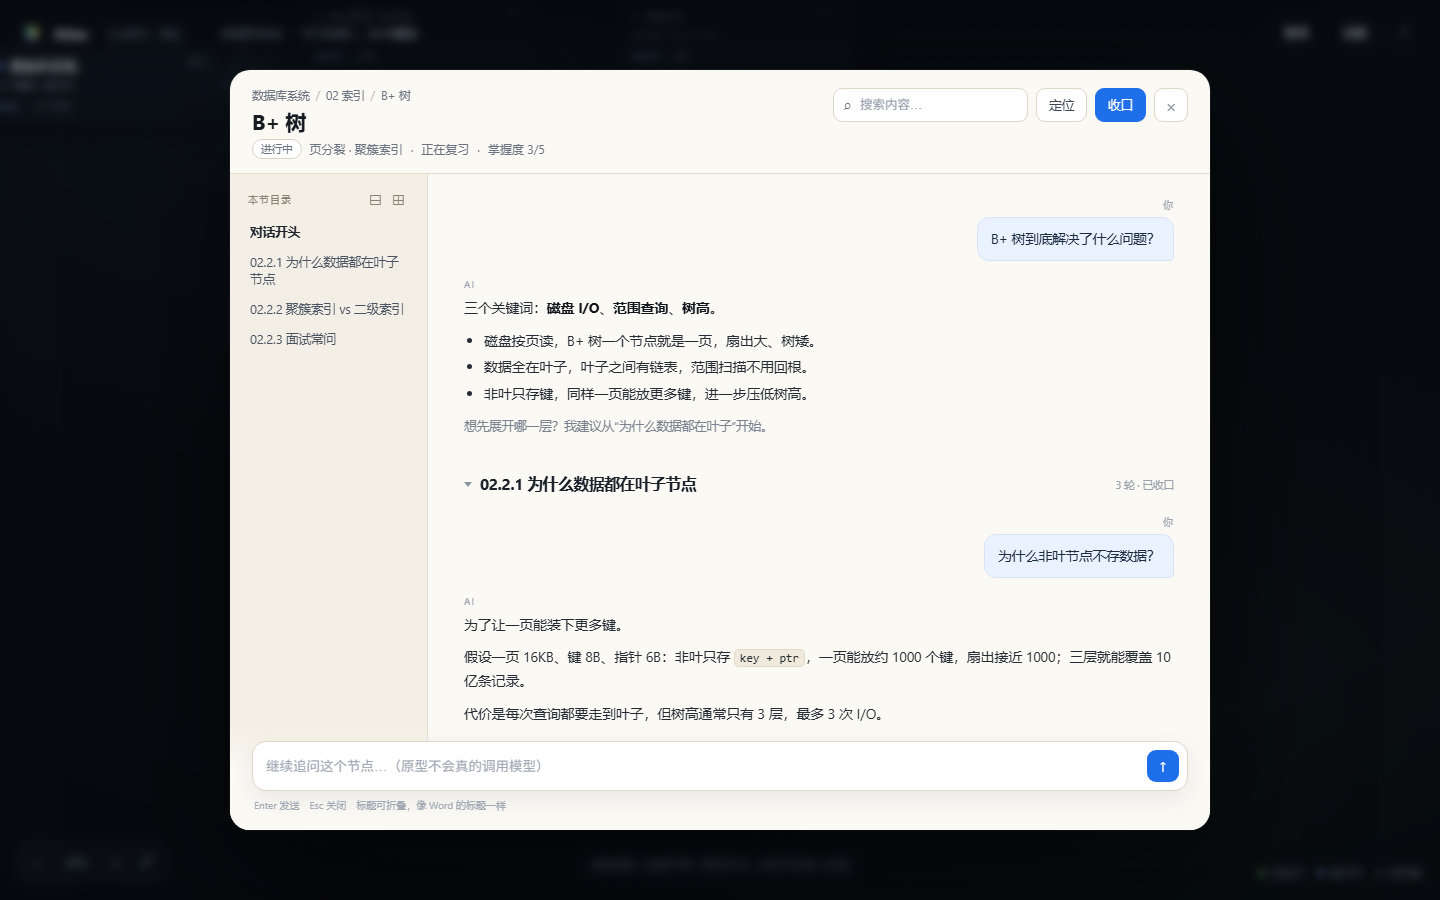
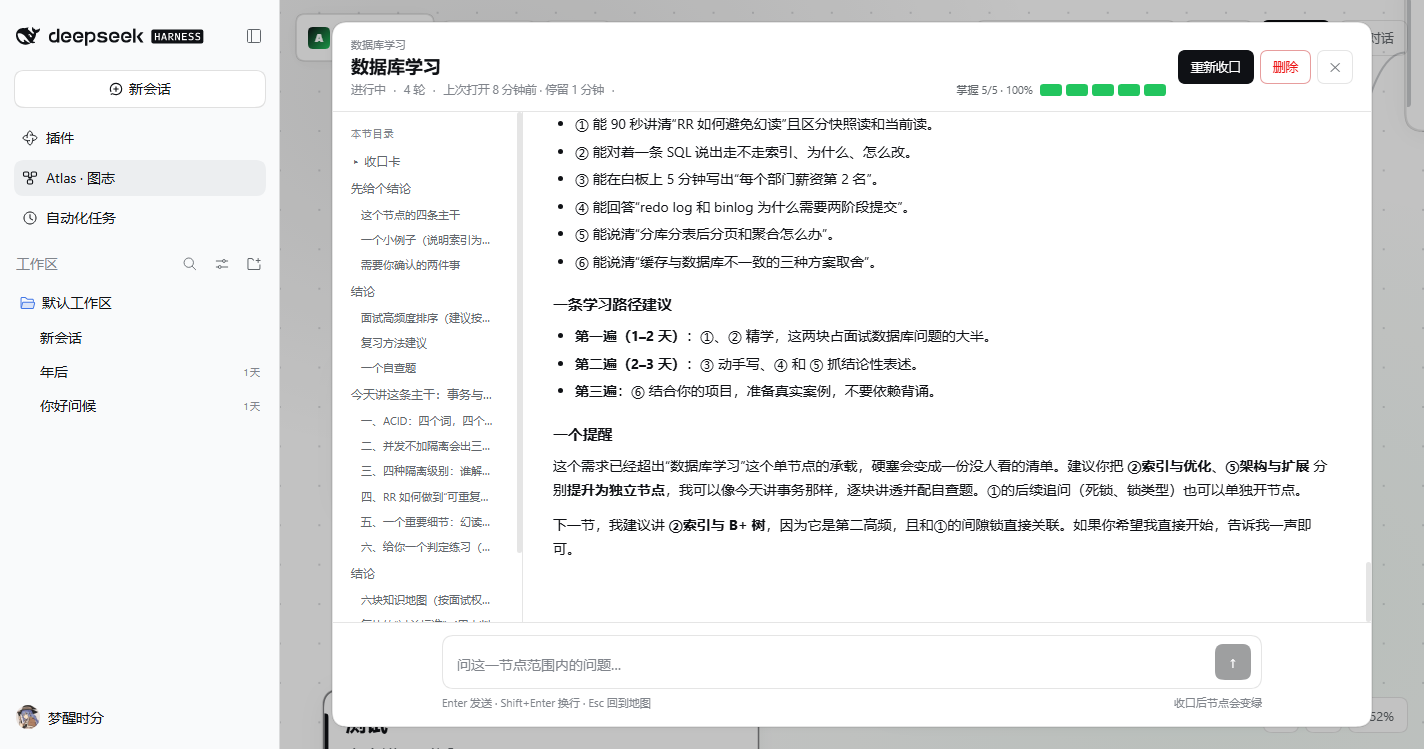
docs: replace screenshots with current Atlas UI

diff --git a/README.md b/README.md
@@ -42,6 +42,8 @@ L3+       不再嵌套，改为「提升为节点」
 
 ![Atlas canvas](docs/assets/canvas.png)
 
+*画布：节点结构、上次打开时间与掌握度颜色段，一眼看清当前地图。*
+
 ---
 
 ## 功能一览
@@ -65,9 +67,22 @@ L3+       不再嵌套，改为「提升为节点」
 
 ![Atlas chat](docs/assets/chat.png)
 
-### 子聊天与提升
+*纸张式对话：目录轨、流式回答、掌握度与收口入口都在同一页。*
 
-![Atlas subchat](docs/assets/subchat.png)
+### 选中解释与界面设置
+
+<p align="center">
+  <img src="docs/assets/explain.png" alt="选中文字后的 AI 上下文解释" width="49%" />
+  <img src="docs/assets/settings.png" alt="Atlas 界面设置" width="49%" />
+</p>
+
+*左侧：选中文字，结合节点与最近对话解释；右侧：调整卡片大小、对话宽度与字号。*
+
+### 亮色与暗色
+
+![Atlas dark theme](docs/assets/canvas-dark.png)
+
+*暗色主题跟随 DSH 的配色 token，画布、卡片、对话面板自动切换。*
 
 ---
 
